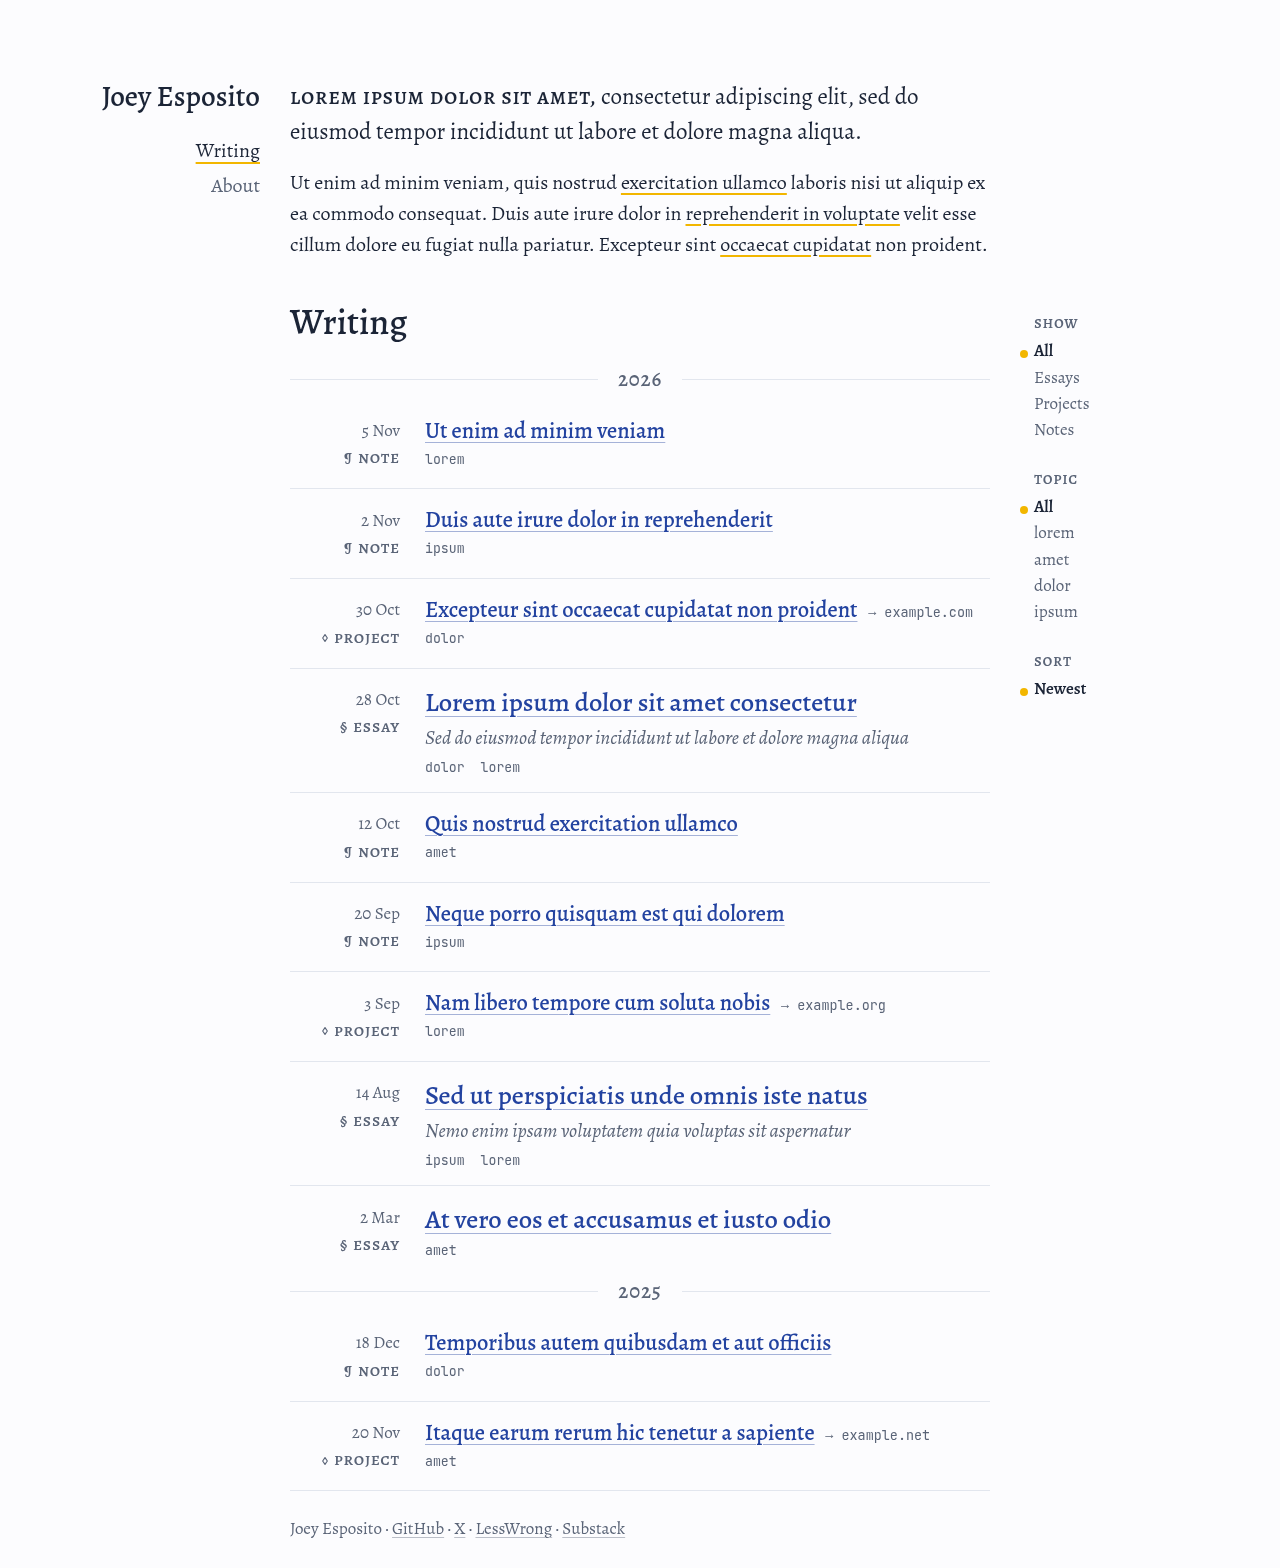
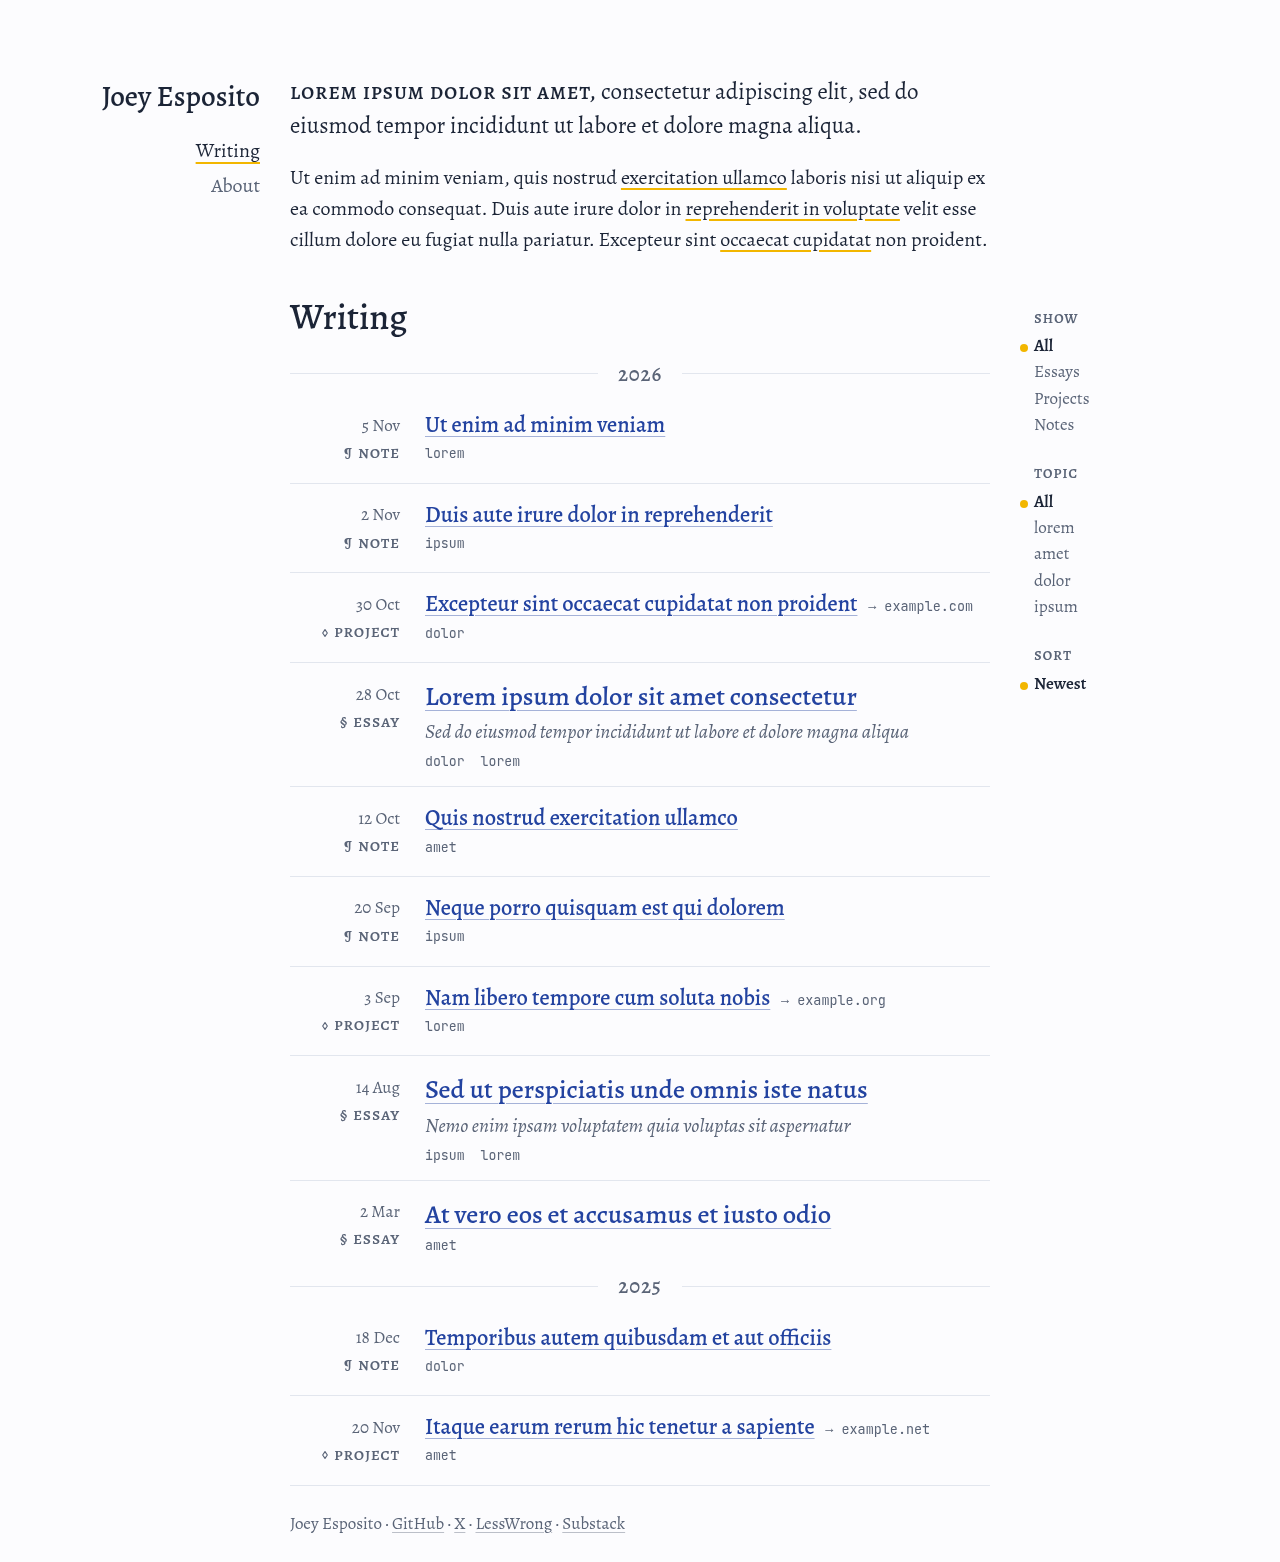
Line up the name's top with the opening text on wide screens

diff --git a/src/styles/global.css b/src/styles/global.css
@@ -126,6 +126,9 @@ body:has(.prose-page) .site-footer { margin-top: 2rem; }
   .home { display: contents; }
   .home > .intro { grid-row: 1; align-self: center; max-width: var(--measure); margin-bottom: 2rem; }
   .home > .writing { grid-row: 2; align-self: start; }
+  /* The opening paragraph's wider leading sets its first letters 5.5px below the name's;
+     raising it lines their tops up on the home and about pages. Post titles already align. */
+  .prose-page .lede, .home > .intro { margin-top: -0.275rem; }
   /* With the controls out in the rail, the first year divider sits right under the heading. */
   .writing .post-list > .year:first-child { margin-top: 0.4rem; }
 }

diff --git a/DESIGN.md b/DESIGN.md
@@ -74,6 +74,9 @@ Meta 0.85–0.92rem. Inline code 0.8em; code blocks 0.72rem (14.4px).
   preferred the dots.)
 - From 80rem: the body is a five-column grid (`1fr | rail | measure | rail | 1fr`). The
   header sits in the left rail, right-aligned and sticky, its top 4rem down on every page.
+  The tops of the name's letters line up with the tops of the first line beside it: a post
+  title does so by itself, and the home intro and the about page's opening paragraph are
+  raised 0.275rem to offset their wider leading.
   Pages that need it put a sticky panel in the right rail (`.with-rail` and `.rail`): the
   writing list's controls, an essay's contents.
 - Home page, from 80rem: the intro and the margin's name and nav form one top band, and
